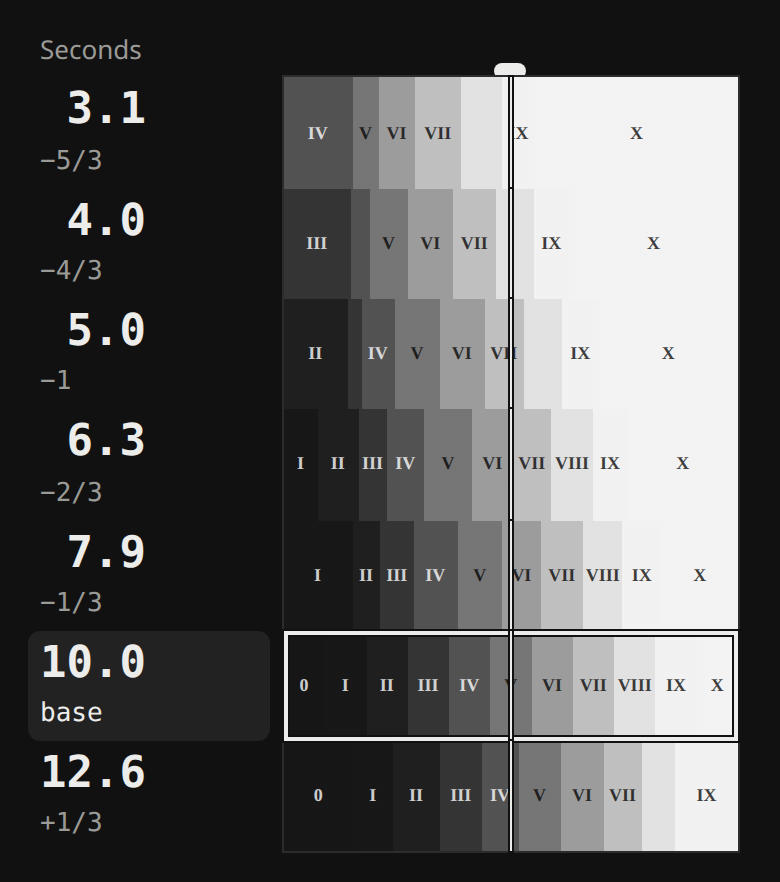
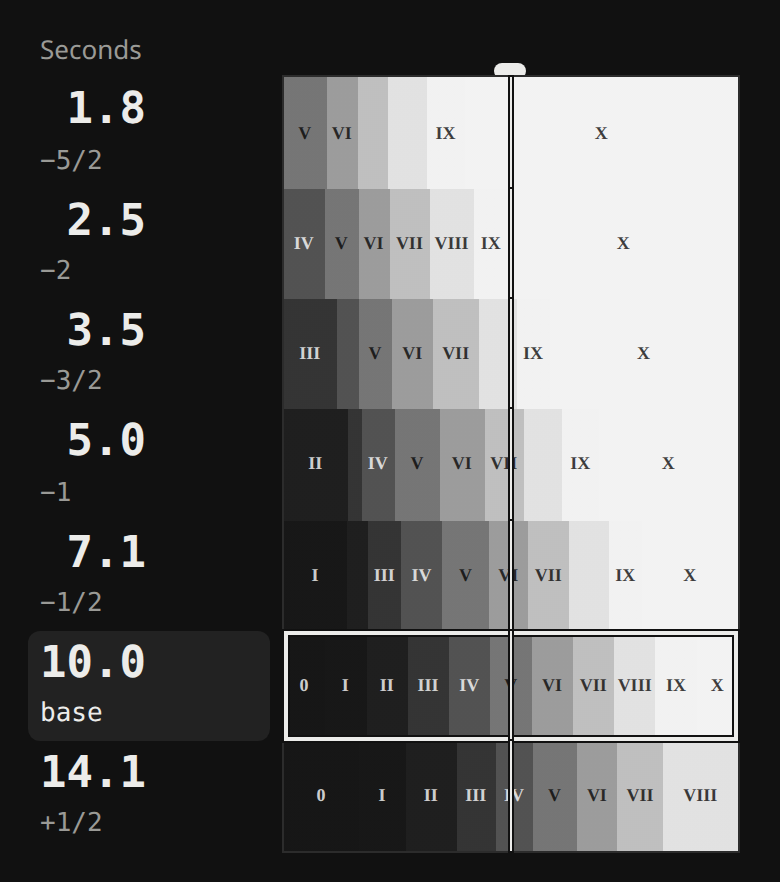
README and figures for the half-stop default

diff --git a/README.md b/README.md
@@ -26,16 +26,16 @@ The website lives at https://binflush.github.io/striptest/. It does the same job
 The easiest way to explain it is to go through a printing session.
 
 ### The plan
-Let's say we have a fresh negative in the enlarger and our best guess is that it needs somewhere around 10 seconds. We want a test strip of 7 patches in 1/3 stop steps around that guess. So we type 10 into **Base, seconds**, choose 1/3 under **Step, stops** and 7 under **Patches**. These happen to be the defaults, so in this case we just open the page:
+Let's say we have a fresh negative in the enlarger and our best guess is that it needs somewhere around 10 seconds. We want a test strip of 7 patches in 1/2 stop steps around that guess. So we type 10 into **Base, seconds**, choose 1/2 under **Step, stops** and 7 under **Patches**. These happen to be the defaults, so in this case we just open the page:
 
-<p align="center"><img src="figures/web-plan.png" width="300" align="top" alt="The page as it opens: base 10 seconds, 1/3 stop steps, 7 patches, and the map underneath with the seconds for every patch"> <img src="figures/web-base.png" width="300" align="top" alt="The sixth patch tapped: the tile and the box have moved to it, and the other patches are drawn against it"></p>
+<p align="center"><img src="figures/web-plan.png" width="300" align="top" alt="The page as it opens: base 10 seconds, 1/2 stop steps, 7 patches, and the map underneath with the seconds for every patch"> <img src="figures/web-base.png" width="300" align="top" alt="The sixth patch tapped: the tile and the box have moved to it, and the other patches are drawn against it"></p>
 
-The map has one row for each patch. On the left, large, are the seconds the patch ends up with, and under them where it sits in stops: 5.0 seconds a stop below the base, 6.3 two thirds below, and so on up to 20.0 a stop above. The base is the patch we believe in, marked with a tile round its figure and a box round its strip. It starts on the middle patch, so the others bracket it; tapping any patch, its figure or its strip, makes that one the base instead, and the others are drawn against it. On the first patch the strip only goes up from there.
+The map has one row for each patch. On the left, large, are the seconds the patch ends up with, and under them where it sits in stops: 3.5 seconds a stop and a half below the base, 5.0 a stop below, and so on up to 28.3 a stop and a half above. The base is the patch we believe in, marked with a tile round its figure and a box round its strip. It starts on the middle patch, so the others bracket it; tapping any patch, its figure or its strip, makes that one the base instead, and the others are drawn against it. On the first patch the strip only goes up from there.
 
-With a timer these figures are all there is to it: give the whole strip 5.0 seconds, cover the first patch, and cover the next at 6.3, 7.9, 10.0 and so on. To expose every patch on its own instead, give each its own seconds. Those who would rather see what each patch *adds* to the one before choose **Additions** under **Exposures** in Configuration, and the figures become 5.0, 1.3, 1.6, 2.1 and so on, with the heading over them saying so. The choice is also what a run in the darkroom gives each patch; more on that below.
+With a timer these figures are all there is to it: give the whole strip 3.5 seconds, cover the first patch, and cover the next at 5.0, 7.1, 10.0 and so on. To expose every patch on its own instead, give each its own seconds. Those who would rather see what each patch *adds* to the one before choose **Additions** under **Exposures** in Configuration, and the figures become 3.5, 1.5, 2.1, 2.9 and so on, with the heading over them saying so. The choice is also what a run in the darkroom gives each patch; more on that below.
 
 ### Reading the map
-The strips are a rough simulation of what the patches are going to look like, in the zones of the Zone System: 0 is full black, V is middle grey and X is paper white. The base patch's strip is simply the scale from 0 to X, and every other strip is that same scale after the patch's exposure. A place across the map is one part of the picture. So we pick a tone in the base row, say a highlight in Zone VIII, and look straight up and down: the zone we find at that same place in another row is what that highlight prints as in that patch. Here it is a IX one patch lighter and paper white beyond that, and one patch darker it is a VII, three patches darker a VI.
+The strips are a rough simulation of what the patches are going to look like, in the zones of the Zone System: 0 is full black, V is middle grey and X is paper white. The base patch's strip is simply the scale from 0 to X, and every other strip is that same scale after the patch's exposure. A place across the map is one part of the picture. So we pick a tone in the base row, say a highlight in Zone VIII, and look straight up and down: the zone we find at that same place in another row is what that highlight prints as in that patch. Here it is a IX one patch lighter and paper white beyond that; one patch darker it is a VII, then a VI, and a V on the last patch.
 
 The zones are coarse, and a lot can happen inside one. For the nuances, slide a finger sideways along any strip, or drag with the mouse. The map then stops showing the scale, and every strip shows one single tone in full: the tone that the part of the picture under the finger gets in that patch, with the zone it is nearest to. The pin stays where the finger leaves it, and sliding picks nothing.
 
@@ -45,7 +45,7 @@ How much happens from one patch to the next depends on the paper, chosen under *
 
 <p align="center"><img src="figures/web-filter-00.png" width="300" align="top" alt="The map at filter 00: the strips hardly change from row to row"> <img src="figures/web-filter-5.png" width="300" align="top" alt="The map at filter 5: the strips change a lot from row to row"></p>
 
-At filter 00 it takes most of a stop to move a tone by one zone, so patches a third of a stop apart are hard to tell from each other, and I would go for bigger steps. At filter 5 a third of a stop is more than a zone and a half, neighbouring patches look nothing alike, and finer steps are needed to land anywhere near the right exposure.
+At filter 00 it takes about a stop to move a tone by one zone, so neighbouring patches half a stop apart often land in the same zone, and I would go for bigger steps. At filter 5 half a stop is about two zones, neighbouring patches look nothing alike, and finer steps are needed to land anywhere near the right exposure.
 
 How seriously should the strips be taken? Not very. The tones come from the characteristic curves in Ilford's data sheets for the papers offered — the current Multigrade RC Deluxe, the cotton-rag Multigrade Art 300, the fibre-based Multigrade FB Classic, and the Multigrade IV RC Deluxe that the first of them replaced — developed the way Ilford developed them. Art 300 is the odd one: being matte, its blackest black is 1.4 against a glossy paper's 2.08, and the strips show that, with the dark zones far closer together. Only Zone V is a fixed tone, 18% grey. Zone 0 and Zone X are simply the blackest and the whitest the paper gets, and the zones in between are placed where a normally developed negative would put them at filter 2 on Multigrade IV. Your paper, your developer and above all your negative are different. The strips are there to build intuition; they do not replace the actual test strip.
 
@@ -54,21 +54,21 @@ The strip is developed and dry, and the fourth patch, 10 seconds, looks about ri
 
 <p align="center"><img src="figures/web-compare.png" width="300" align="top" alt="Filter 2 compared with filter 3: every row has a second strip under its first, where the zones lie closer together"> <img src="figures/web-compare-slide.png" width="300" align="top" alt="Sliding along the base row over a shadow in Zone III: through filter 3 the same patch prints it as Zone II"></p>
 
-Every row now has a second strip under its first. It is the same patch, exposed for the same seconds, but through filter 3. The strips are read exactly as before, and a place across them is still one part of the picture. So we find our shadow in the base row's upper strip and look at the strip right under it: the III becomes a II, which is what we wanted. And the highlights? The same slide over the Zone VIII highlight shows filter 3 lifting it to a IX at 10 seconds, and an VIII again a third of a stop up, at 12.6. So filter 3 it is, and the exposure lies somewhere between 10 and 12.6 seconds. That is what the next strip is for: 11 as the base, 1/6 stop steps, 5 patches, and the filter slider up to 3 — or, to start the strip at the base and only go up from there, the first patch tapped as the base.
+Every row now has a second strip under its first. It is the same patch, exposed for the same seconds, but through filter 3. The strips are read exactly as before, and a place across them is still one part of the picture. So we find our shadow in the base row's upper strip and look at the strip right under it: the III becomes a II, which is what we wanted. And the highlights? The same slide over the Zone VIII highlight shows filter 3 lifting it to a IX at 10 seconds, and an VIII again half a stop up, at 14.1. So filter 3 it is, and the exposure lies somewhere between 10 and 14.1 seconds. That is what the next strip is for: 12 as the base, 1/6 stop steps, 5 patches, and the filter slider up to 3 — or, to start the strip at the base and only go up from there, the first patch tapped as the base.
 
 The two filters are lined up by the paper speeds in Ilford's data sheets. Multigrade filters are speed matched: 00 to 3 need the same exposure, and 4 and 5 need more — a whole stop on Multigrade IV and on Art 300, about an eighth of one on FB Classic and the current RC Deluxe, if the sheets are to be believed. With other filters, a colour head, or filters that have faded over the years this is going to be off, so the same goes as before: the strips are there to build intuition.
 
 ### Configuration
 Under the fields, **Configuration** holds what belongs to the way of timing chosen. For sound cues that is the **count-in**, the seconds the page waits before the lamp goes on: three is the least, because it counts three in, and a longer one simply waits before counting them — make it as long as you need to get a hand to the switch. **Exposures** is the choice above between totals and additions: it says what the map shows and what a run gives each patch. **Stop between exposures** is described in the next section. On a wide screen Configuration stands open, in a rail beside the map.
 
-<p align="center"><img src="figures/web-configuration.png" width="300" align="top" alt="Configuration open: the count-in, Exposures as Totals or Additions, and Stop between exposures"> <img src="figures/web-additions.png" width="300" align="top" alt="With Additions chosen the figures are what each patch adds: 5.0, then 1.3, 1.6, 2.1 and so on"></p>
+<p align="center"><img src="figures/web-configuration.png" width="300" align="top" alt="Configuration open: the count-in, Exposures as Totals or Additions, and Stop between exposures"> <img src="figures/web-additions.png" width="300" align="top" alt="With Additions chosen the figures are what each patch adds: 3.5, then 1.5, 2.1, 2.9 and so on"></p>
 
 ### At the enlarger
 Everything so far happens with the lights on. When they go out the phone is the wrong shape entirely: a white page is a fog risk, the browser's bars are in the way, and the screen turns itself off halfway through a strip. The button at the foot of the screen, **Run in Darkroom Mode**, deals with all three. It fills the screen with the plan in large red type on black, asks the phone to stay awake, and shows nothing that can be set. **Close**, or Escape, brings the page back.
 
 <p align="center"><img src="figures/web-darkroom.png" width="300" align="top" alt="The darkroom view: the plan in red on black, a bar for every wait, and Start, Start dark and Close"> <img src="figures/web-resume.png" width="300" align="top" alt="Part way through a strip run one patch at a time: the first patch done and its bar full, Patch 2 next, and Resume, Reset and Resume dark"></p>
 
-The plan in the view is the map's figures with a bar beside each, as long as that patch's exposure, with one more above them all for the count-in, all to one scale, so that before anything is started the plan is already a picture of how long the strip takes. **Start** runs it, and a run gives every patch exactly the figure beside it, in turn. With **Totals** that is each patch's whole exposure, one after the other, for a strip moved along in a holder at each mark: 5.0 seconds, then 6.3, then 7.9. With **Additions** it is what each patch adds, for a strip covered as it goes: 5.0, then 1.3, then 1.6, the lamp staying on and the next patch covered at each mark. The count-in counts three soft beats, one a second, the last of them a second before the lamp. On the lamp a drone comes in and holds for as long as the exposure runs. Over it a tone climbs, and lands an octave higher exactly on each moment you have to act on, where a short beat falls, louder and an octave above the ones that counted you in: one for each patch, and the last is the lamp off. Then silence, which is how you know it is over. Because the pitch is always climbing towards the next one, a moment never arrives unannounced, and it arrives just as decisively whether the gap was one second or ten. As the run goes, the bar of the wait it is on fills, meeting its end as the beat is heard, and the line about the run and the Stop button fall back, so that the figures stay the brightest thing on the screen.
+The plan in the view is the map's figures with a bar beside each, as long as that patch's exposure, with one more above them all for the count-in, all to one scale, so that before anything is started the plan is already a picture of how long the strip takes. **Start** runs it, and a run gives every patch exactly the figure beside it, in turn. With **Totals** that is each patch's whole exposure, one after the other, for a strip moved along in a holder at each mark: 3.5 seconds, then 5.0, then 7.1. With **Additions** it is what each patch adds, for a strip covered as it goes: 3.5, then 1.5, then 2.1, the lamp staying on and the next patch covered at each mark. The count-in counts three soft beats, one a second, the last of them a second before the lamp. On the lamp a drone comes in and holds for as long as the exposure runs. Over it a tone climbs, and lands an octave higher exactly on each moment you have to act on, where a short beat falls, louder and an octave above the ones that counted you in: one for each patch, and the last is the lamp off. Then silence, which is how you know it is over. Because the pitch is always climbing towards the next one, a moment never arrives unannounced, and it arrives just as decisively whether the gap was one second or ten. As the run goes, the bar of the wait it is on fills, meeting its end as the beat is heard, and the line about the run and the Stop button fall back, so that the figures stay the brightest thing on the screen.
 
 **Start dark** gives the screen up altogether: by ear you need not look at all, and a screen is only a light source. It stays black after the run has finished as well, which is deliberate — a strip ending is the worst possible moment to light the room, with the paper still out. The whole of that black screen is then the one control. A tap starts a run and stops one that is going, and a hold of about three quarters of a second gives the screen back and ends the run with it; it reddens very faintly while you hold, so you can tell the hold has taken. Started the lit way, a press on the button stops the run at once. If the phone rings, or anything else takes the page away mid-run, the sound stops and the view says so: that strip is spoiled, and better to know it.
 
@@ -79,11 +79,11 @@ Red only is safer than white, but it is not safe, and the page says so too. The 
 ### With a metronome
 Tick **Use a metronome instead**, and the page says what to set the metronome to and what to count:
 
-<p align="center"><img src="figures/web-metronome.png" width="300" align="top" alt="The metronome: set it to 181 and count every 3rd beat, from zero; the map now gives the counts"> <img src="figures/web-skipping.png" width="300" align="top" alt="181 has been skipped, and the page suggests 144 instead, counting every 2nd beat"></p>
+<p align="center"><img src="figures/web-metronome.png" width="300" align="top" alt="The metronome: set it to 204 and count every 3rd beat, from zero; the map now gives the counts"> <img src="figures/web-skipping.png" width="300" align="top" alt="204 has been skipped, and the page suggests 203 instead, still counting every 3rd beat"></p>
 
-We set the metronome to 181 and count every 3rd beat. The figures are now counts: we start the exposure on the count of zero, cover the first patch on the count of 5, the next on 6+1/3, then on 8, 10 and so on. A count of 6+1/3 means the first beat after the sixth counted one. Every patch is a whole number of beats, so it always begins on a counted beat, though it may end on one between. The counts are chosen to land as close to the f/stop times as a tempo allows — here no patch is more than 2.4% of a third of a stop off, which is quite a bit better than counting half seconds gave us in the **Background** section — and when a patch is more than a tenth of a step off, the page says so in red beside its stops.
+We set the metronome to 204 and count every 3rd beat. The figures are now counts: we start the exposure on the count of zero, cover the first patch on the count of 4, the next on 5+2/3, then on 8, 11+1/3 and so on. A count of 5+2/3 means the second beat after the fifth counted one. Every patch is a whole number of beats, so it always begins on a counted beat, though it may end on one between. The counts are chosen to land as close to the f/stop times as a tempo allows — here no patch is more than 0.5% of half a stop off, which is quite a bit better than counting half seconds gave us in the **Background** section — and when a patch is more than a tenth of a step off, the page says so in red beside its stops.
 
-Most metronomes can't do 181. Many have gaps between their tempos, especially the fast ones. So we press **My metronome can't do 181**, and get the next best tempo instead: 144, which even my old mechanical metronome has, counting every 2nd beat. If 144 had been missing too, we would press again, until we land on a tempo the metronome has. The tempos we have skipped are remembered on the device, so after a few sessions the page knows the metronome and stops suggesting tempos it lacks. A tempo skipped by mistake is brought back by pressing it in the **Skipping** list, and **Forget all skipped tempos** under Configuration starts over. Configuration also holds the metronome's range, **Slowest** and **Fastest**, and **Count every**, which is normally chosen for you so that the counting pace stays near one a second. Choose **Additions** under **Exposures** and the counts start again from zero at every patch, which many find easier to count.
+Most metronomes can't do 204. Many have gaps between their tempos, especially the fast ones. So we press **My metronome can't do 204**, and get the next best tempo instead: 203, which a digital metronome has. My old mechanical one has neither, nor the 169, 205 and 119 that come after, but the fifth press lands on 168, which is on its dial, counting every 2nd beat: 5, 7, 10, 14 and so on, none of them more than 2.9% of a step off. The tempos we have skipped are remembered on the device, so after a few sessions the page knows the metronome and goes straight to what it has. A tempo skipped by mistake is brought back by pressing it in the **Skipping** list, and **Forget all skipped tempos** under Configuration starts over. Configuration also holds the metronome's range, **Slowest** and **Fastest**, and **Count every**, which is normally chosen for you so that the counting pace stays near one a second. Choose **Additions** under **Exposures** and the counts start again from zero at every patch, which many find easier to count.
 
 The page can run the metronome too. Press **Run in Darkroom Mode**, then **Start**, and it keeps that tempo for as long as you let it, striking the beat you count an octave above the rest. **Start dark** does the same with the screen black. It is a plain metronome, nothing more: the counting is still yours, and a hardware one does just as well.
 
@@ -125,25 +125,25 @@ Ensure you have python and numpy installed, download `striptest.py`, and run it:
 ```
 python striptest.py
 ```
-By default it plans 7 patches in 1/3 stop steps around a base of 10 seconds, for which the best tempo happens to be 181 bpm:
+By default it plans 7 patches in 1/2 stop steps around a base of 10 seconds, for which the best tempo happens to be 204 bpm:
 ```
-TEMPO 181
+TEMPO 204
 Count every 3rd beat
 
      Count      Stops    Seconds   Target Sec   % of stepsize Error
-     5             -1      4.972        5.000      -2.4%
-     6+1/3       -2/3      6.298        6.300      -0.1%
-     8           -1/3      7.956        7.937       1.0%
-    10              0      9.945       10.000      -2.4%
-    12+2/3       +1/3     12.597       12.599      -0.1%
-    16           +2/3     15.912       15.874       1.0%
-    20             +1     19.890       20.000      -2.4%
+     4           -3/2      3.529        3.536      -0.5%
+     5+2/3         -1      5.000        5.000       0.0%
+     8           -1/2      7.059        7.071      -0.5%
+    11+1/3          0     10.000       10.000       0.0%
+    16           +1/2     14.118       14.142      -0.5%
+    22+2/3         +1     20.000       20.000       0.0%
+    32           +3/2     28.235       28.284      -0.5%
 ```
-Set the metronome to 181, let it accent every third beat if it can, and start counting from zero as the exposure starts: the whole strip gets 5 counts (15 beats), then the first patch is covered and the rest get up to 6+1/3, and so on.
+Set the metronome to 204, let it accent every third beat if it can, and start counting from zero as the exposure starts: the whole strip gets 4 counts (12 beats), then the first patch is covered and the rest get up to 5+2/3, and so on.
 
 ### Usage
 - `-b`, `--base`: Base exposure time in seconds (float). Default is `10`.
-- `-s`, `--stepsize`: Inverse of the step size as an integer (int). `1` is one stop, `2` is 1/2 stop, etc. Default is `3`.
+- `-s`, `--stepsize`: Inverse of the step size as an integer (int). `1` is one stop, `2` is 1/2 stop, etc. Default is `2`.
 - `-n`, `--numsteps`: Number of steps (int). Default is `7`.
 - `-p`, `--baseplace`: Where the base is placed, in steps from the first patch. `-p 0` puts the base on the first patch, `-p -1` one step before the strip. By default the base is placed in the middle for an uneven number of steps, and just before the middle for an even one.
 - `-tmin`, `--tmin`: Slowest tempo (int) in bpm to consider. Default is `40`.
@@ -153,7 +153,7 @@ Set the metronome to 181, let it accent every third beat if it can, and start co
 - `-d`, `--divisions`: Count every so many beats (`1` for every beat, `3` for every third). By default this is chosen from the tempo.
 - `--plot`: Plot the achieved stops against the target stops at the end.
 
-For a 6-second base over 5 patches, `python striptest.py -b 6 -n 5` finds 190 bpm, counting every 3rd beat: 4, 5, 6+1/3, 8 and 10. And a strip of 5 patches in 1/6 stop steps from an 8-second base placed one step before it, counted from zero on every beat on a metronome that runs from 30 to 200 — `python striptest.py -n 5 -b 8 -p -1 -s 6 -tmin 30 -tmax 200 -c -d 1 --plot` — comes to 160 bpm: 24 beats, then 3, 3, 4 and 4 more, none of them more than 4.9% of a step off, which the plot shows:
+For a 6-second base over 5 patches in thirds, `python striptest.py -b 6 -n 5 -s 3` finds 190 bpm, counting every 3rd beat: 4, 5, 6+1/3, 8 and 10. And a strip of 5 patches in 1/6 stop steps from an 8-second base placed one step before it, counted from zero on every beat on a metronome that runs from 30 to 200 — `python striptest.py -n 5 -b 8 -p -1 -s 6 -tmin 30 -tmax 200 -c -d 1 --plot` — comes to 160 bpm: 24 beats, then 3, 3, 4 and 4 more, none of them more than 4.9% of a step off, which the plot shows:
 
 ![Extended example errors plotted](figures/ext-example.png)
 
